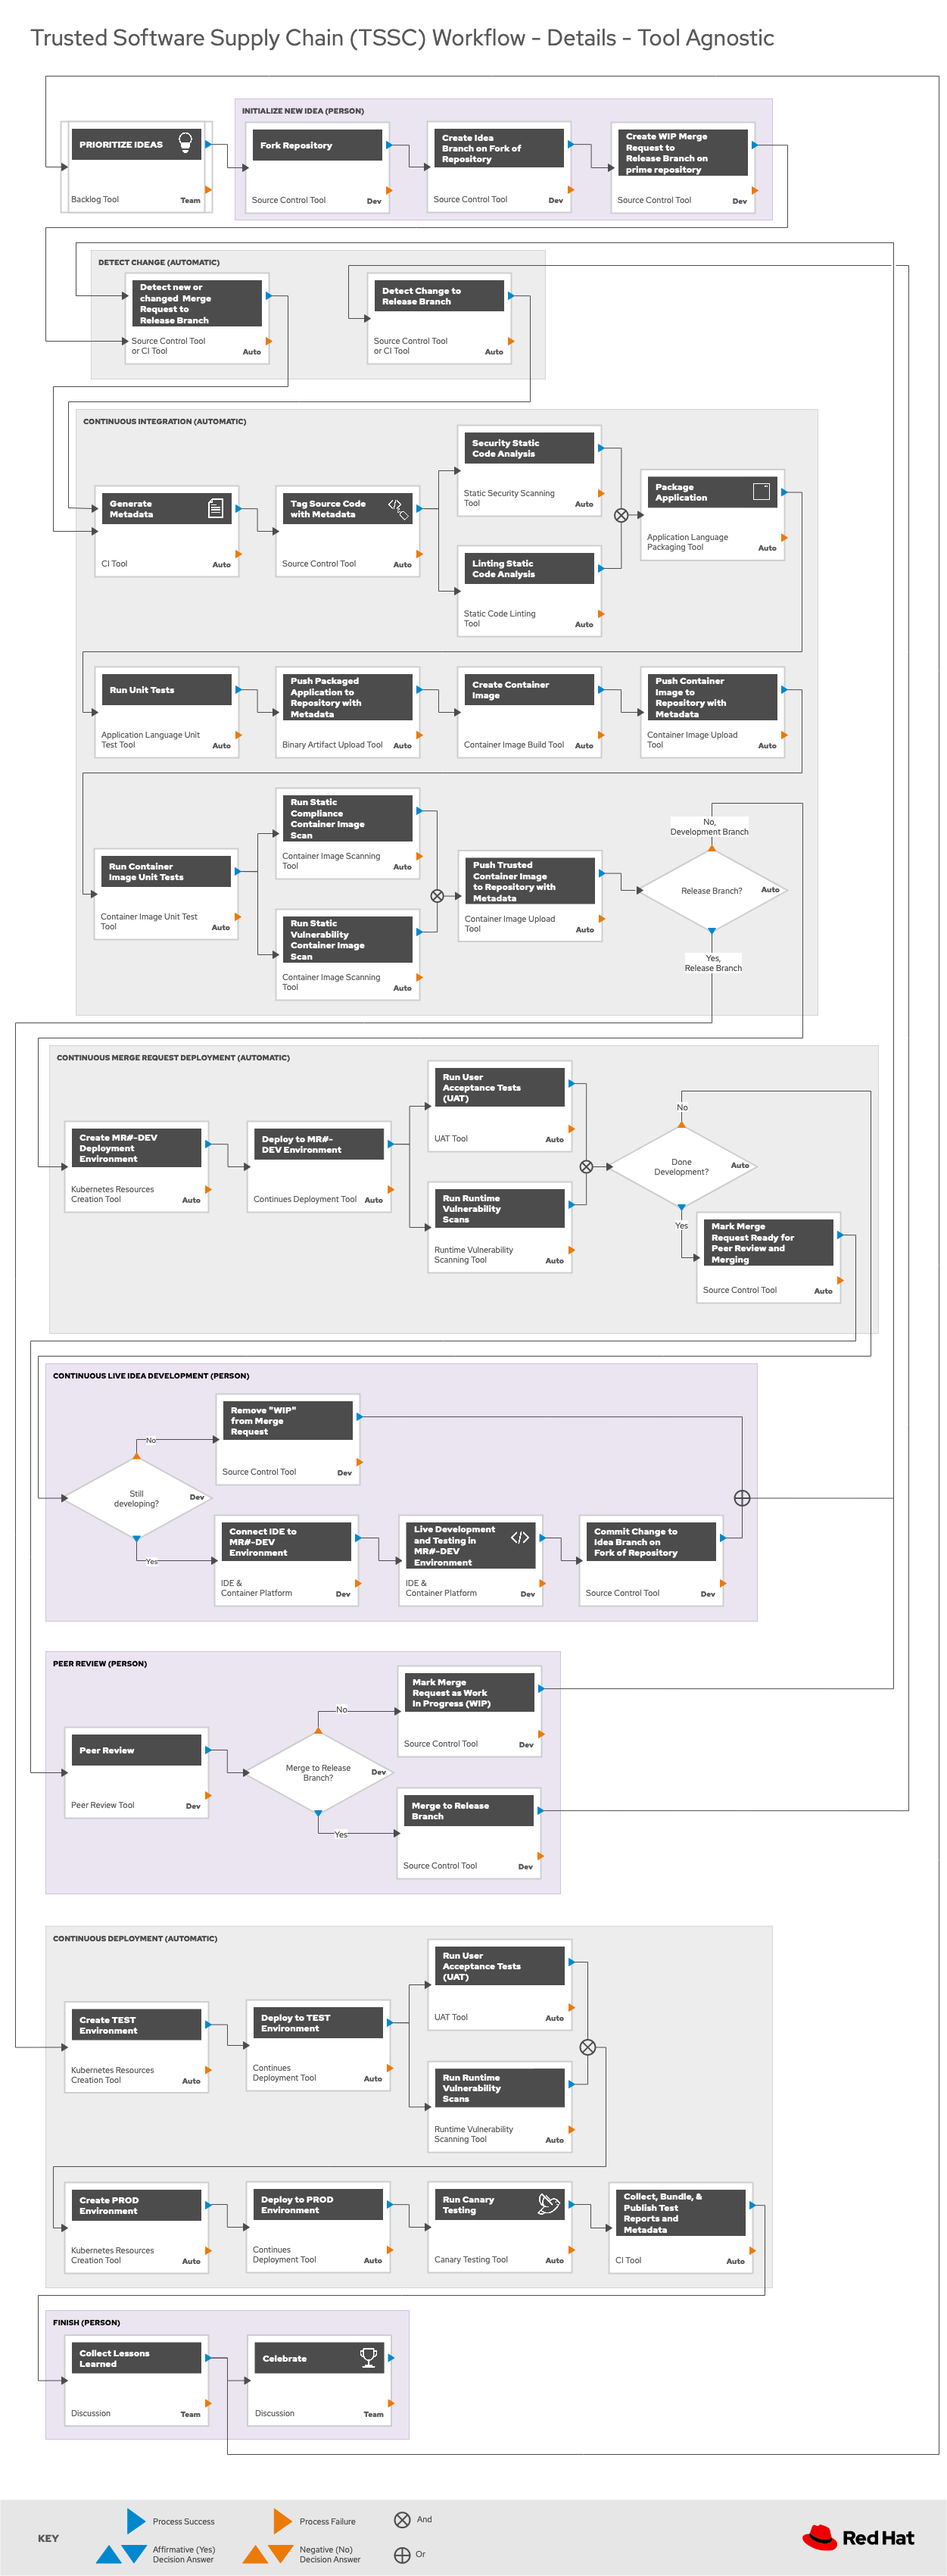
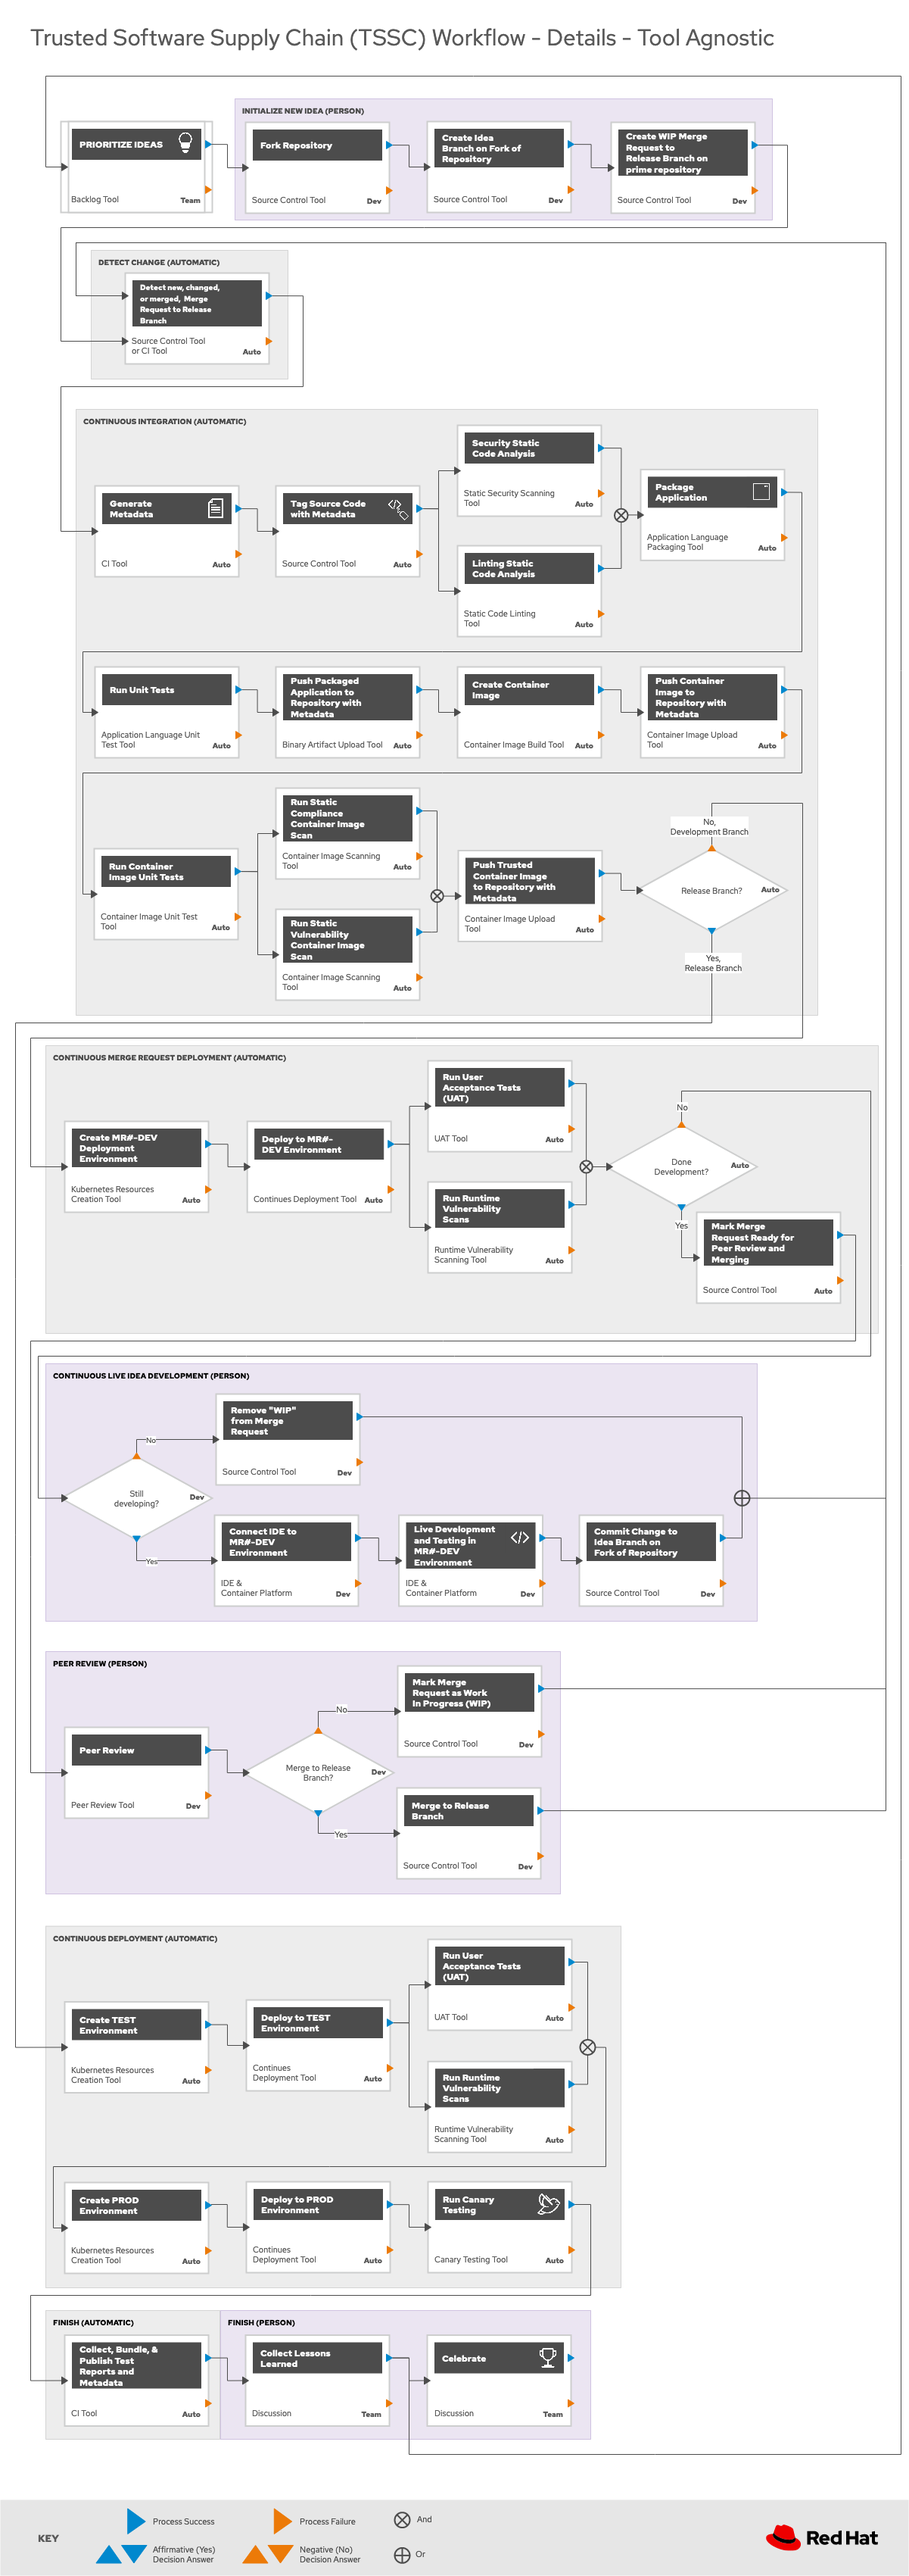
Deploying to gh-pages from  @ c475addba54f0fed8b8eccf6524e682c8a262d60 🚀

diff --git a/index.html b/index.html
@@ -620,10 +620,7 @@ body.book #toc,body.book #preamble,body.book h1.sect0,body.book .sect1>h2{page-b
 <td class="tableblock halign-left valign-top"><div class="content"><div class="ulist">
 <ul>
 <li>
-<p><a href="#detailed-component-detect-changed-merge-request">Detect new or changed  Merge Request to Release Branch</a></p>
-</li>
-<li>
-<p><a href="#detailed-component-detect-change-to-release-branch">Detect Change to Release Branch</a></p>
+<p><a href="#detailed-component-detect-changed-merge-request">Detect new, changed, or merged,  Merge Request to Release Branch</a></p>
 </li>
 </ul>
 </div></div></td>
@@ -781,9 +778,6 @@ body.book #toc,body.book #preamble,body.book h1.sect0,body.book .sect1>h2{page-b
 <li>
 <p>Run Canary Testing</p>
 </li>
-<li>
-<p>Collect, Bundle, &amp; Publish Test Reports and Metadata</p>
-</li>
 </ul>
 </div></div></td>
 </tr>
@@ -796,6 +790,9 @@ body.book #toc,body.book #preamble,body.book h1.sect0,body.book .sect1>h2{page-b
 </div></div></td>
 <td class="tableblock halign-left valign-top"><div class="content"><div class="ulist">
 <ul>
+<li>
+<p>Collect, Bundle, &amp; Publish Test Reports and Metadata</p>
+</li>
 <li>
 <p>Collect Lessons Learned</p>
 </li>
@@ -874,25 +871,7 @@ body.book #toc,body.book #preamble,body.book h1.sect0,body.book .sect1>h2{page-b
 </tr>
 <tr>
 <td class="tableblock halign-left valign-top"><div class="content"><div id="detailed-component-detect-changed-merge-request" class="paragraph">
-<p>Detect new or changed  Merge Request to Release Branch</p>
-</div></div></td>
-<td class="tableblock halign-left valign-top"><div class="content"><div class="paragraph">
-<p><mark>TODO - purpose</mark></p>
-</div></div></td>
-<td class="tableblock halign-left valign-top"><div class="content"><div class="ulist">
-<ul>
-<li>
-<p>CI Tool</p>
-</li>
-<li>
-<p>Source Control Tool</p>
-</li>
-</ul>
-</div></div></td>
-</tr>
-<tr>
-<td class="tableblock halign-left valign-top"><div class="content"><div id="detailed-component-detect-change-to-release-branch" class="paragraph">
-<p>Detect Change to Release Branch</p>
+<p>Detect new, changed, or merged,  Merge Request to Release Branch</p>
 </div></div></td>
 <td class="tableblock halign-left valign-top"><div class="content"><div class="paragraph">
 <p><mark>TODO - purpose</mark></p>
@@ -2322,7 +2301,7 @@ Tool</p>
 </div>
 <div id="footer">
 <div id="footer-text">
-Last updated 2020-06-22 18:38:12 UTC
+Last updated 2020-06-23 12:41:17 UTC
 </div>
 </div>
 </body>
